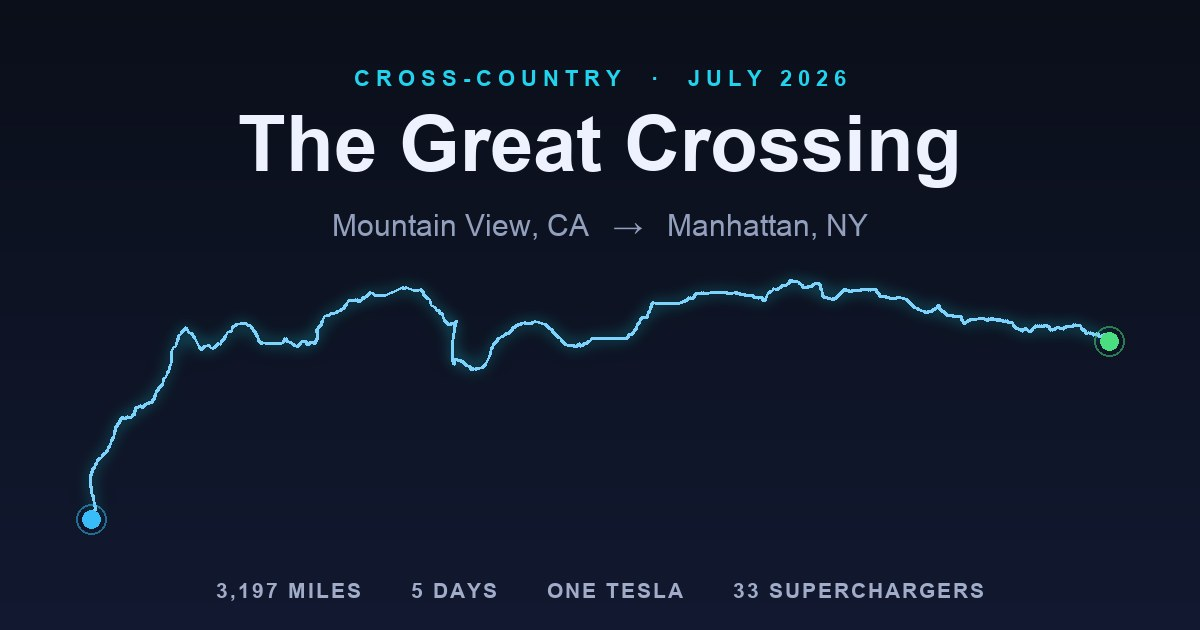
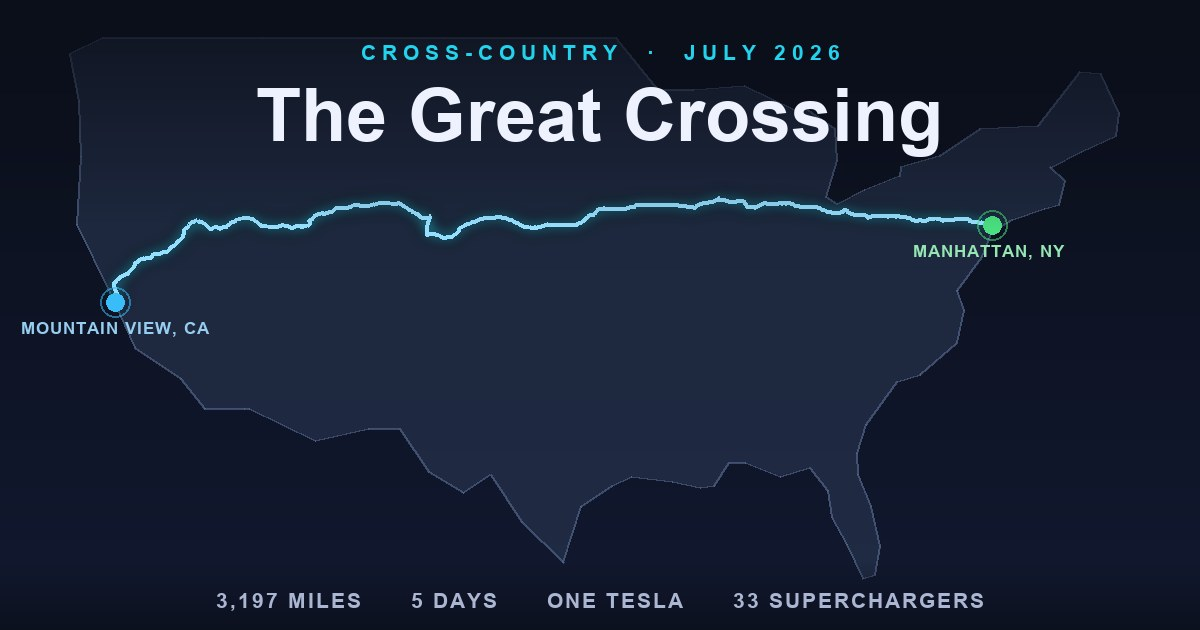
OG image: add US map silhouette behind route; About text we→Chris
- gen_og.py now draws a coarse continental-US silhouette (proper equirectangular
  projection) under the glowing route, with labelled start/end dots, so the share
  card clearly reads coast-to-coast.
- About story now third-person ("Chris packed up... drove the whole way").

diff --git a/site/app.js b/site/app.js
@@ -571,8 +571,8 @@
       `<span><b>${miles}</b>miles</span><span><b>${nDays}</b>days</span>` +
       `<span><b>${nCharges}</b>Superchargers</span><span><b>${kwh}</b>kWh</span>`;
     $("about-why").textContent =
-      `In July 2026 we packed up life in the Bay Area and moved to New York — and instead of flying, ` +
-      `we drove the whole way. ${miles} miles from ${data.meta.start} to ${data.meta.finish} in ` +
+      `In July 2026 Chris packed up life in the Bay Area and moved to New York — and instead of flying, ` +
+      `drove the whole way. ${miles} miles from ${data.meta.start} to ${data.meta.finish} in ` +
       `${nDays} days, one Tesla and ${nCharges} Supercharger stops. This map replays that move, mile by mile.`;
     const about = $("about");
     const closeAbout = () => about.classList.add("fade");

diff --git a/tools/gen_og.py b/tools/gen_og.py
@@ -1,63 +1,113 @@
 #!/usr/bin/env python3
 """Generate site/og-image.jpg — the social share card (1200x630).
-Draws the real route from trip.json as a glowing line under the trip title."""
-import json, os
+A subtle continental-US silhouette with the real route from trip.json glowing
+across it, start/end dots labelled, under the trip title + stats."""
+import json, os, math
 from PIL import Image, ImageDraw, ImageFont, ImageFilter
 
 ROOT = "/Users/chrisoh/Code/Cross-Country-Road-Trip"
 W, H = 1200, 630
-d = json.load(open(f"{ROOT}/site/data/trip.json"))
-track = d["track"]
-lons = [p[2] for p in track]; lats = [p[1] for p in track]
-lo0, lo1, la0, la1 = min(lons), max(lons), min(lats), max(lats)
-PADX, TOP, BOT = 90, 280, 520
-X = lambda lon: PADX + (lon - lo0) / (lo1 - lo0) * (W - 2 * PADX)
-Y = lambda lat: BOT - (lat - la0) / (la1 - la0) * (BOT - TOP)
-pts = [(X(p[2]), Y(p[1])) for p in track[::15]]
 
-# vertical gradient background
+# --- coarse continental-US outline (lon,lat), clockwise from the NW coast ---
+US = [
+ (-124.6,48.3),(-124.1,46.2),(-124.0,43.8),(-124.2,40.8),(-122.4,37.8),(-121.0,35.4),
+ (-118.5,34.0),(-117.2,32.7),(-115.0,32.7),(-114.7,32.7),(-111.1,31.3),(-108.2,31.8),
+ (-106.5,31.8),(-104.9,29.9),(-103.0,29.0),(-101.5,29.8),(-99.8,27.7),(-97.5,25.9),
+ (-96.5,28.4),(-94.8,29.3),(-93.8,29.7),(-91.5,29.5),(-90.0,29.2),(-89.2,29.3),
+ (-88.4,30.3),(-87.5,30.3),(-85.6,29.7),(-84.0,30.1),(-83.0,29.1),(-82.8,27.9),
+ (-82.0,26.7),(-81.1,25.2),(-80.4,25.4),(-80.1,26.6),(-80.6,28.4),(-81.3,29.8),
+ (-81.4,30.7),(-80.9,32.0),(-79.2,33.9),(-77.9,34.2),(-75.9,35.6),(-75.5,37.0),
+ (-75.9,37.9),(-74.5,39.4),(-74.0,40.5),(-72.9,41.0),(-71.1,41.5),(-70.3,41.7),
+ (-70.0,42.7),(-70.8,43.3),(-69.1,44.0),(-67.2,44.7),(-67.0,45.7),(-68.0,47.4),
+ (-69.2,47.5),(-71.5,45.1),(-74.7,45.0),(-76.9,43.8),(-79.0,43.3),(-79.1,42.9),
+ (-81.0,42.3),(-82.5,41.7),(-83.1,42.0),(-82.5,43.6),(-82.6,45.0),(-84.4,46.0),
+ (-84.7,45.8),(-87.6,46.9),(-90.4,46.7),(-92.3,46.7),(-94.6,49.0),(-95.2,49.0),
+ (-104.0,49.0),(-114.0,49.0),(-122.8,49.0),(-124.6,48.3),
+]
+LON0, LON1, LAT0, LAT1 = -125.0, -66.0, 23.5, 49.6
+LATM = math.cos(math.radians((LAT0 + LAT1) / 2))
+# fit the map to the card width with uniform scale (preserve geographic aspect)
+PADX = 62
+s = (W - 2 * PADX) / ((LON1 - LON0) * LATM)
+mapH = (LAT1 - LAT0) * s
+Y0 = (H - mapH) / 2 + 6
+X = lambda lon: PADX + (lon - LON0) * LATM * s
+Y = lambda lat: Y0 + (LAT1 - lat) * s
+
+d = json.load(open(f"{ROOT}/site/data/trip.json"))
+route = [(X(p[2]), Y(p[1])) for p in d["track"][::12]]
+us = [(X(lo), Y(la)) for lo, la in US]
+
+# --- background gradient ---
 grad = Image.new("RGB", (1, H))
 for y in range(H):
     t = y / H
     grad.putpixel((0, y), (int(11 + t * 7), int(15 + t * 10), int(26 + t * 22)))
 img = grad.resize((W, H))
+
+# --- US silhouette: soft fill + thin stroke on its own layer ---
+land = Image.new("RGBA", (W, H), (0, 0, 0, 0))
+ld = ImageDraw.Draw(land)
+ld.polygon(us, fill=(41, 55, 82, 150))
+img.paste(land, (0, 0), land.filter(ImageFilter.GaussianBlur(0.6)))
 draw = ImageDraw.Draw(img, "RGBA")
+draw.line(us + [us[0]], fill=(90, 110, 150, 150), width=2, joint="curve")
 
-# route glow (blurred) then crisp core
+# --- route: blurred glow then crisp core ---
 glow = Image.new("RGBA", (W, H), (0, 0, 0, 0))
-ImageDraw.Draw(glow).line(pts, fill=(34, 211, 238, 170), width=11, joint="curve")
-glow = glow.filter(ImageFilter.GaussianBlur(9))
-img.paste(glow, (0, 0), glow)
-draw.line(pts, fill=(125, 211, 252, 255), width=3, joint="curve")
-for (x, y), c in [(pts[0], (56, 189, 248)), (pts[-1], (74, 222, 128))]:
-    draw.ellipse([x - 9, y - 9, x + 9, y + 9], fill=c + (255,))
-    draw.ellipse([x - 15, y - 15, x + 15, y + 15], outline=c + (130,), width=2)
+ImageDraw.Draw(glow).line(route, fill=(34, 211, 238, 200), width=10, joint="curve")
+img.paste(glow.filter(ImageFilter.GaussianBlur(7)), (0, 0), glow.filter(ImageFilter.GaussianBlur(7)))
+draw.line(route, fill=(150, 224, 255, 255), width=4, joint="curve")
 
-def font(sz, bold=True):
-    cands = (["/System/Library/Fonts/Supplemental/Arial Bold.ttf",
-              "/System/Library/Fonts/HelveticaNeue.ttc"] if bold else
-             ["/System/Library/Fonts/Supplemental/Arial.ttf",
-              "/System/Library/Fonts/HelveticaNeue.ttc"])
-    for p in cands:
+def dot(pt, c):
+    x, y = pt
+    draw.ellipse([x - 9, y - 9, x + 9, y + 9], fill=c + (255,))
+    draw.ellipse([x - 15, y - 15, x + 15, y + 15], outline=c + (140,), width=2)
+dot(route[0], (56, 189, 248))
+dot(route[-1], (74, 222, 128))
+
+def fnt(sz, bold=True):
+    for p in (["/System/Library/Fonts/Supplemental/Arial Bold.ttf", "/System/Library/Fonts/HelveticaNeue.ttc"]
+              if bold else ["/System/Library/Fonts/Supplemental/Arial.ttf", "/System/Library/Fonts/HelveticaNeue.ttc"]):
         if os.path.exists(p):
             try: return ImageFont.truetype(p, sz)
             except Exception: pass
     return ImageFont.load_default()
 
-def center(txt, y, fnt, fill, tracking=0):
-    if tracking:
-        total = sum(draw.textlength(ch, font=fnt) + tracking for ch in txt) - tracking
-        x = (W - total) / 2
-        for ch in txt:
-            draw.text((x, y), ch, font=fnt, fill=fill)
-            x += draw.textlength(ch, font=fnt) + tracking
+def text(xy, txt, f, fill, anchor=None, track=0):
+    if track:
+        x, y = xy
+        if anchor and "m" in anchor:
+            tot = sum(draw.textlength(c, font=f) + track for c in txt) - track
+            x -= tot / 2
+        for c in txt:
+            draw.text((x, y), c, font=f, fill=fill); x += draw.textlength(c, font=f) + track
     else:
-        draw.text(((W - draw.textlength(txt, font=fnt)) / 2, y), txt, font=fnt, fill=fill)
+        draw.text(xy, txt, font=f, fill=fill, anchor=anchor)
 
-center("CROSS-COUNTRY  ·  JULY 2026", 66, font(22), (34, 211, 238, 255), tracking=6)
-center("The Great Crossing", 100, font(78), (238, 242, 255, 255))
-center("Mountain View, CA   →   Manhattan, NY", 208, font(30, False), (147, 160, 189, 255))
-center("3,197 MILES      5 DAYS      ONE TESLA      33 SUPERCHARGERS", 578, font(21), (160, 172, 200, 255), tracking=2)
+# endpoint labels (kept clear of the title band up top)
+text((route[0][0], route[0][1] + 16), "MOUNTAIN VIEW, CA", fnt(17), (150, 205, 240, 255), anchor="ma", track=1)
+text((route[-1][0] - 4, route[-1][1] + 16), "MANHATTAN, NY", fnt(17), (150, 230, 180, 255), anchor="ma", track=1)
+
+# --- top scrim so the title reads over the map, then title ---
+scrim = Image.new("RGBA", (W, H), (0, 0, 0, 0))
+sd = ImageDraw.Draw(scrim)
+for y in range(230):
+    sd.line([(0, y), (W, y)], fill=(11, 15, 26, int(215 * (1 - y / 230))))
+img.paste(scrim, (0, 0), scrim)
+draw = ImageDraw.Draw(img, "RGBA")
+text((W / 2, 40), "CROSS-COUNTRY  ·  JULY 2026", fnt(21), (34, 211, 238, 255), anchor="ma", track=6)
+text((W / 2, 74), "The Great Crossing", fnt(74), (238, 242, 255, 255), anchor="ma")
+
+# --- bottom stats with a soft scrim ---
+bs = Image.new("RGBA", (W, H), (0, 0, 0, 0))
+bd = ImageDraw.Draw(bs)
+for y in range(H - 70, H):
+    bd.line([(0, y), (W, y)], fill=(11, 15, 26, int(210 * ((y - (H - 70)) / 70))))
+img.paste(bs, (0, 0), bs)
+ImageDraw.Draw(img, "RGBA")
+text((W / 2, H - 42), "3,197 MILES      5 DAYS      ONE TESLA      33 SUPERCHARGERS",
+     fnt(21), (170, 182, 210, 255), anchor="ma", track=2)
 
 img.save(f"{ROOT}/site/og-image.jpg", quality=88)
 print("wrote site/og-image.jpg", os.path.getsize(f"{ROOT}/site/og-image.jpg") // 1024, "KB")